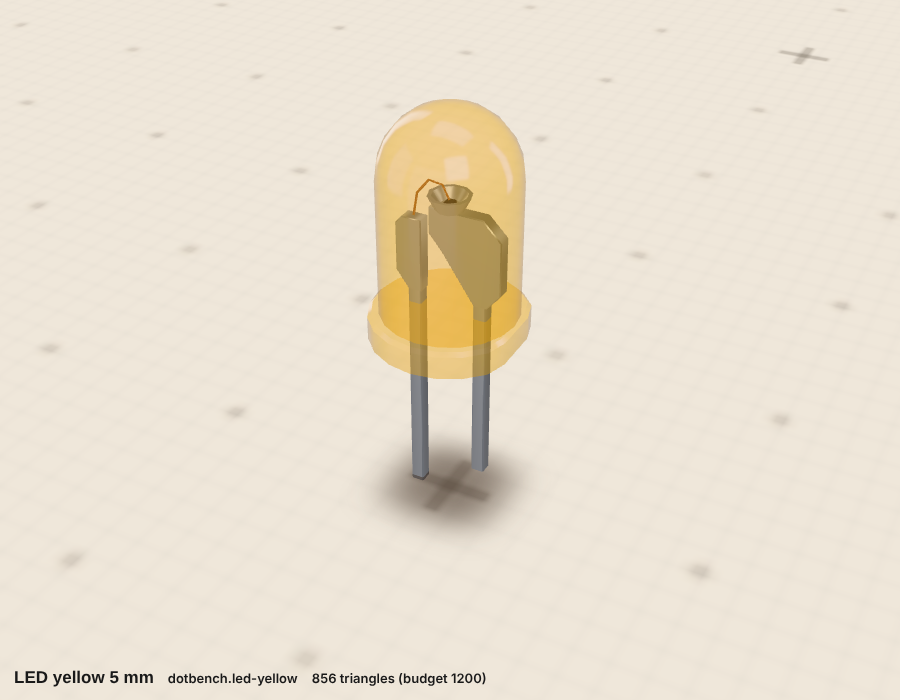
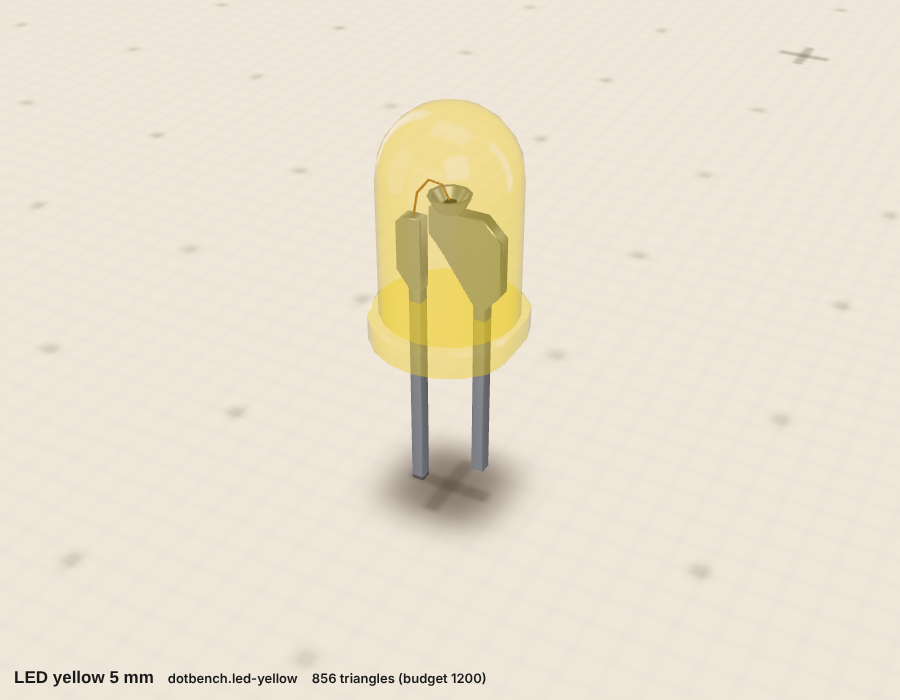
Bench3D passives: resistor with value bands, 1N4007 diode
Resistor: four colour bands from the ohms field (band geometry shared per
value), a glow above the rated power. Diode: DO-41 with cathode band and type
print wrapped on the body, a glow on overcurrent. Shared helpers for axial
parts and for print on round surfaces; colours that carry meaning are
compensated for the kit's double linearisation.

Changed region(s): [[0.4044, 0.36, 0.5911, 0.51]]

diff --git a/web/src/bench3d/models/passives/resistor.model.ts b/web/src/bench3d/models/passives/resistor.model.ts
@@ -1,0 +1,87 @@
+/**
+ * Resistor (parts/resistor): a 0.25 W axial carbon film resistor lying on the board, its leads bent down to the two
+ * terminals 10.16 mm apart. The four colour bands show the part's `ohms` (two digits, multiplier, 5 % gold), so the
+ * value can be read off the model as off the real part.
+ * Dimensions (the usual CF-1/4 drawing): body 6.3 x 2.5 mm with the two swollen end caps, leads 0.55 mm.
+ *
+ * The body and leads are the static body (instanced). The bands are one small mesh per copy whose geometry is shared
+ * by every resistor of the same value (colours in the vertices, the kit's matte material): no material per copy.
+ * Above its rated power (from `current_ma` and `ohms`) the body glows: the bench's "overpower" hazard.
+ */
+import { Mesh, type BufferGeometry } from 'three';
+import manifest from '../../../../../parts/resistor/manifest.json';
+import { Shape, defineModel, familyMaterial, footprintOf, part, partState, terminalsFromManifest, type Finish, type PartState, type V2 } from '../../index';
+import { BAND_COLOURS, bandsOf, resistorBands } from './codes';
+import { PLUG, asManifest, asSeen, axial, axialLeadsTo, axialShell, fieldDefault, hotShell, num, setHot, terminalOf } from './common';
+
+const m = asManifest(manifest);
+const terminals = terminalsFromManifest(m);
+const OHMS = fieldDefault(m, 'ohms', 330);
+const RATED_W = Number(m.behaviour?.elements?.[0]?.rated_mw ?? 250) / 1000;
+/** The lacquer of a carbon film resistor (a candidate for PAL: resistorTan). */
+const TAN: Finish = ['gloss', '#e8d6b2'];
+const AXIS_Y = 1.35;
+const R_CAP = 1.25, R_WAIST = 1.08;
+/** The body's outline, [radius, x]: two end caps and the waist between them. */
+const BODY: V2[] = [[0, -3.15], [0.62, -3.15], [1.08, -2.98], [R_CAP, -2.62], [R_CAP, -1.95], [R_WAIST, -1.55], [R_WAIST, 1.55], [R_CAP, 1.95], [R_CAP, 2.62], [1.08, 2.98], [0.62, 3.15], [0, 3.15]];
+/** Where the bands sit: [x, radius under it]. Digits and multiplier together at one end, the tolerance apart at the other. */
+const BANDS: V2[] = [[-2.28, R_CAP], [-1.02, R_WAIST], [0.06, R_WAIST], [2.28, R_CAP]];
+const BAND_W = 0.52;
+
+const cache = new Map<number, BufferGeometry>();
+/** The four bands of a value as one geometry, built once per value and shared by every copy that has it. */
+function bandGeometry(code: number): BufferGeometry {
+  let g = cache.get(code);
+  if (!g) {
+    const s = new Shape();
+    const colours = bandsOf(code);
+    s.with(axial(AXIS_Y), () => BANDS.forEach(([x, r], i) => s.band('matte', asSeen(BAND_COLOURS[colours[i]]), 0, 0, r, x - BAND_W / 2, x + BAND_W / 2, 0, Math.PI * 2, 14)));
+    g = s.build().matte!;
+    cache.set(code, g);
+  }
+  return g;
+}
+
+export default defineModel<PartState>({
+  id: m.id,
+  title: m.name.en,
+  footprintMm: footprintOf(m.body),
+  plugMm: PLUG,
+  terminals,
+  build(ctx) {
+    const s = new Shape();
+    s.with(axial(AXIS_Y), () => s.lathe(...TAN, 0, 0, BODY, ctx.seg(14)));
+    axialLeadsTo(s, terminalOf(terminals, 'A'), terminalOf(terminals, 'B'), AXIS_Y, -3.05, 3.05);
+    const root = s.toObject();
+    const code = resistorBands(OHMS);
+    const bands = new Mesh(bandGeometry(code), familyMaterial('matte'));
+    bands.name = 'bands';
+    bands.userData.bench3d = 'bands';
+    bands.userData.code = code;
+    root.add(bands, hotShell('hot', axialShell(AXIS_Y, BODY.filter((_, i) => i !== 2 && i !== 9), ctx.seg(14))));
+    return root;
+  },
+  animate(st, obj, env) {
+    const ohms = num(st.fields.ohms, OHMS);
+    const code = resistorBands(ohms);
+    const bands = part(obj, 'bands') as Mesh;
+    if (bands.userData.code !== code) {
+      bands.userData.code = code;
+      bands.geometry = bandGeometry(code);
+    }
+    // P = I^2 R against the rating: the body glows while it is overloaded
+    const amps = num(st.outputs.current_ma, 0) / 1000;
+    const hot = st.power.on && amps * amps * ohms > RATED_W;
+    setHot(obj, 'hot', hot, env.time);
+    return hot;
+  },
+  states: {
+    r330: partState({ fields: { ohms: 330 }, outputs: { current_ma: 4 } }),
+    r4k7: partState({ fields: { ohms: 4700 }, outputs: { current_ma: 0.7 } }),
+    r10k: partState({ fields: { ohms: 10000 }, outputs: { current_ma: 0.33 } }),
+    r1M: partState({ fields: { ohms: 1000000 } }),
+    r0R47: partState({ fields: { ohms: 0.47 }, outputs: { current_ma: 120 } }),
+    r68: partState({ fields: { ohms: 68 }, outputs: { current_ma: 20 } }),
+    overpower: partState({ fields: { ohms: 10 }, outputs: { current_ma: 500 } }),
+  },
+});

diff --git a/web/src/bench3d/models/passives/common.ts b/web/src/bench3d/models/passives/common.ts
@@ -32,6 +32,19 @@ export const terminalOf = (terminals: Terminal[], id: string): V3 => terminals.f
 /** A number of a part's live fields, or its default. */
 export const num = (v: unknown, fallback: number): number => (typeof v === 'number' && Number.isFinite(v) ? v : fallback);
 
+// --------------------------------------------------------------------------------------------------- colours
+/**
+ * A colour for the Shape builders that is SEEN as `hex`. The kit's Shape.add linearises a colour twice (`Color.set`
+ * already converts sRGB to linear, `convertSRGBToLinear` does it again), so a hex given to a builder comes out darker
+ * and more saturated: orange turns red, yellow turns amber. Where the hue carries meaning (a resistor's bands, a
+ * yellow LED) the colour is encoded once more here, so the double conversion lands on the intended one.
+ */
+export function asSeen(hex: string): string {
+  const enc = (v: number) => Math.round(255 * (v <= 0.0031308 ? v * 12.92 : 1.055 * Math.pow(v, 1 / 2.4) - 0.055));
+  const n = parseInt(hex.slice(1), 16);
+  return `#${[(n >> 16) & 255, (n >> 8) & 255, n & 255].map((c) => enc(c / 255).toString(16).padStart(2, '0')).join('')}`;
+}
+
 // --------------------------------------------------------------------------------------------------- placing
 /**
  * The frame of a part lying along X at height `y` (an axial resistor or diode): inside `s.with(axial(y, z), ...)`
@@ -140,11 +153,11 @@ export function hotShell(name: string, shell: Shape): Object3D {
   return g;
 }
 /** Shows or hides a `hotShell`; while hot it pulses (call every frame: return true from `animate`). */
-export function setHot(obj: Object3D, name: string, hot: boolean, time: number, colour = 0xff4a12): void {
+export function setHot(obj: Object3D, name: string, hot: boolean, time: number, colour = 0xd62400): void {
   const n = part(obj, name);
   if (!n) return;
   n.visible = hot;
-  if (hot) setLamp(obj, name, colour, 0.62 + 0.3 * Math.sin(time * 7));
+  if (hot) setLamp(obj, name, colour, 0.42 + 0.26 * Math.sin(time * 7));
 }
 
 /** Multiplies the colours of a `glowing` part of one copy (its materials are its own): 0xffffff is as built. */
@@ -160,4 +173,22 @@ export function tint(node: Object3D, hex: number): void {
 export function show(obj: Object3D, name: string, on: boolean): void {
   const n = part(obj, name);
   if (n) n.visible = on;
+}
+
+// ------------------------------------------------------------------------------------------------ axial parts
+/** How far the leads of this family's parts reach below the seating plane (into a breadboard). */
+export const PLUG = 6;
+/**
+ * The two leads of a part lying along X at height `y`: out of the body's ends at x0 and x1, bent down at the
+ * terminals `a` and `b` and on below the seating plane.
+ */
+export function axialLeadsTo(s: Shape, a: V3, b: V3, y: number, x0: number, x1: number, d = 0.55, plug = PLUG): void {
+  bentLead(s, [[x0, y, a[2]], [a[0], y, a[2]], [a[0], -plug, a[2]]], d, Math.min(0.9, y * 0.7));
+  bentLead(s, [[x1, y, b[2]], [b[0], y, b[2]], [b[0], -plug, b[2]]], d, Math.min(0.9, y * 0.7));
+}
+/** The clear shell of an axial body for `hotShell`: the body's outline as [radius, x], drawn a little larger. */
+export function axialShell(y: number, profile: V2[], seg: number, colour = asSeen('#ea3a0e')): Shape {
+  const s = new Shape();
+  s.with(axial(y), () => s.lathe('glass', colour, 0, 0, profile.map(([r, x], i) => [r > 0 ? r + 0.1 : 0, x + (i < profile.length / 2 ? -0.1 : 0.1)] as V2), seg));
+  return s;
 }

diff --git a/web/src/bench3d/models/passives/diode.model.ts b/web/src/bench3d/models/passives/diode.model.ts
@@ -1,0 +1,71 @@
+/**
+ * Diode 1N4007 (parts/diode): a rectifier in the DO-41 package lying on the board, its leads bent down to the two
+ * terminals 10.16 mm apart. The light band marks the cathode (K).
+ * Dimensions (DO-41): body 5.0 x 2.6 mm, leads 0.8 mm.
+ * Over its rated current (`overcurrent`) the body glows.
+ */
+import manifest from '../../../../../parts/diode/manifest.json';
+import { FONT_MONO, PAL, Shape, defineModel, footprintOf, partState, terminalsFromManifest, text, type PartState, type V2 } from '../../index';
+import { PLUG, asManifest, axial, axialLeadsTo, axialShell, hotShell, printOnCylinder, setHot, terminalOf } from './common';
+
+const m = asManifest(manifest);
+const terminals = terminalsFromManifest(m);
+const A = terminalOf(terminals, 'A'), K = terminalOf(terminals, 'K');
+const AXIS_Y = 1.4;
+const R = 1.3, HALF = 2.5;
+const BODY: V2[] = [[0, -HALF], [0.95, -HALF], [R, -HALF + 0.3], [R, HALF - 0.3], [0.95, HALF], [0, HALF]];
+/** The cathode's end: +1 when K is on +X (as the manifest has it). */
+const k = Math.sign(K[0] - A[0]) || 1;
+
+export default defineModel<PartState>({
+  id: m.id,
+  title: m.name.en,
+  footprintMm: footprintOf(m.body),
+  plugMm: PLUG,
+  terminals,
+  build(ctx) {
+    const s = new Shape();
+    s.with(axial(AXIS_Y), () => {
+      s.lathe(...PAL.epoxyBlack, 0, 0, BODY, ctx.seg(14));
+      // the cathode band, printed round the body near its end
+      s.band('matte', '#d3d6da', 0, 0, R, k > 0 ? 1.2 : -2.0, k > 0 ? 2.0 : -1.2, 0, Math.PI * 2, ctx.seg(14));
+    });
+    axialLeadsTo(s, A, K, AXIS_Y, -HALF + 0.1, HALF - 0.1, 0.8);
+    const root = s.toObject();
+    root.add(
+      // the type on the body, where it is read from above and from the front
+      printOnCylinder(
+        { o: [0, AXIS_Y, 0], axis: [1, 0, 0], u: [0, 0, 1], v: [0, 1, 0], r: R, a0: 0.3, a1: 1.45, t0: k > 0 ? -2.05 : -1.05, t1: k > 0 ? 1.05 : 2.05, reads: 'axis', seg: 5 },
+        {
+          name: 'type',
+          ppm: 34,
+          draw(g) {
+            g.fillStyle = '#c4c7cc';
+            text(g, '1N4007', 0, -0.26, 0.62, { weight: 700, font: FONT_MONO, spacing: 0.02 });
+            text(g, 'DB 2611', 0.1, 0.36, 0.4, { weight: 500, font: FONT_MONO });
+            // a made-up maker's mark: a small diamond
+            g.beginPath();
+            g.moveTo(-1.18, 0.36);
+            g.lineTo(-1.0, 0.2);
+            g.lineTo(-0.82, 0.36);
+            g.lineTo(-1.0, 0.52);
+            g.closePath();
+            g.fill();
+          },
+        },
+      ),
+      hotShell('hot', axialShell(AXIS_Y, BODY, ctx.seg(14))),
+    );
+    return root;
+  },
+  animate(st, obj, env) {
+    const hot = st.power.on && st.outputs.overcurrent === true;
+    setHot(obj, 'hot', hot, env.time);
+    return hot;
+  },
+  states: {
+    idle: partState({ outputs: { current_ma: 0 } }),
+    conducting: partState({ outputs: { current_ma: 180 } }),
+    overcurrent: partState({ outputs: { current_ma: 1600, overcurrent: true } }),
+  },
+});

diff --git a/web/src/bench3d/models/passives/codes.ts b/web/src/bench3d/models/passives/codes.ts
@@ -3,8 +3,8 @@
  * three-digit code of a small capacitor or a chip resistor, the plain print of an electrolytic. Pure functions.
  */
 
-/** Band colours by index: digits 0..9, then gold (10) and silver (11). */
-export const BAND_COLOURS = ['#17130f', '#7b4a22', '#cf2b24', '#ee7a16', '#f2cc17', '#2c9a47', '#2257c4', '#8a45bd', '#8b9097', '#f1efe8', '#c79a2b', '#b9bec4'] as const;
+/** Band colours by index, as they should be seen: digits 0..9, then gold (10) and silver (11). */
+export const BAND_COLOURS = ['#1a1714', '#7a4a26', '#d42a20', '#f08020', '#f2d21c', '#2a9a48', '#2456c8', '#8a48c0', '#8d9299', '#f4f2ec', '#bd9530', '#bcc1c7'] as const;
 export const GOLD = 10;
 export const SILVER = 11;
 

diff --git a/web/src/bench3d/models/passives/led-yellow.model.ts b/web/src/bench3d/models/passives/led-yellow.model.ts
@@ -5,8 +5,9 @@
  */
 import manifest from '../../../../../parts/led-yellow/manifest.json';
 import type { Finish } from '../../index';
+import { asSeen } from './common';
 import { ledModel } from './led5';
 
-const RESIN_YELLOW: Finish = ['glass', '#f1cf1f'];
+const RESIN_YELLOW: Finish = ['glass', asSeen('#f2d226')];
 
 export default ledModel(manifest, { resin: RESIN_YELLOW });
